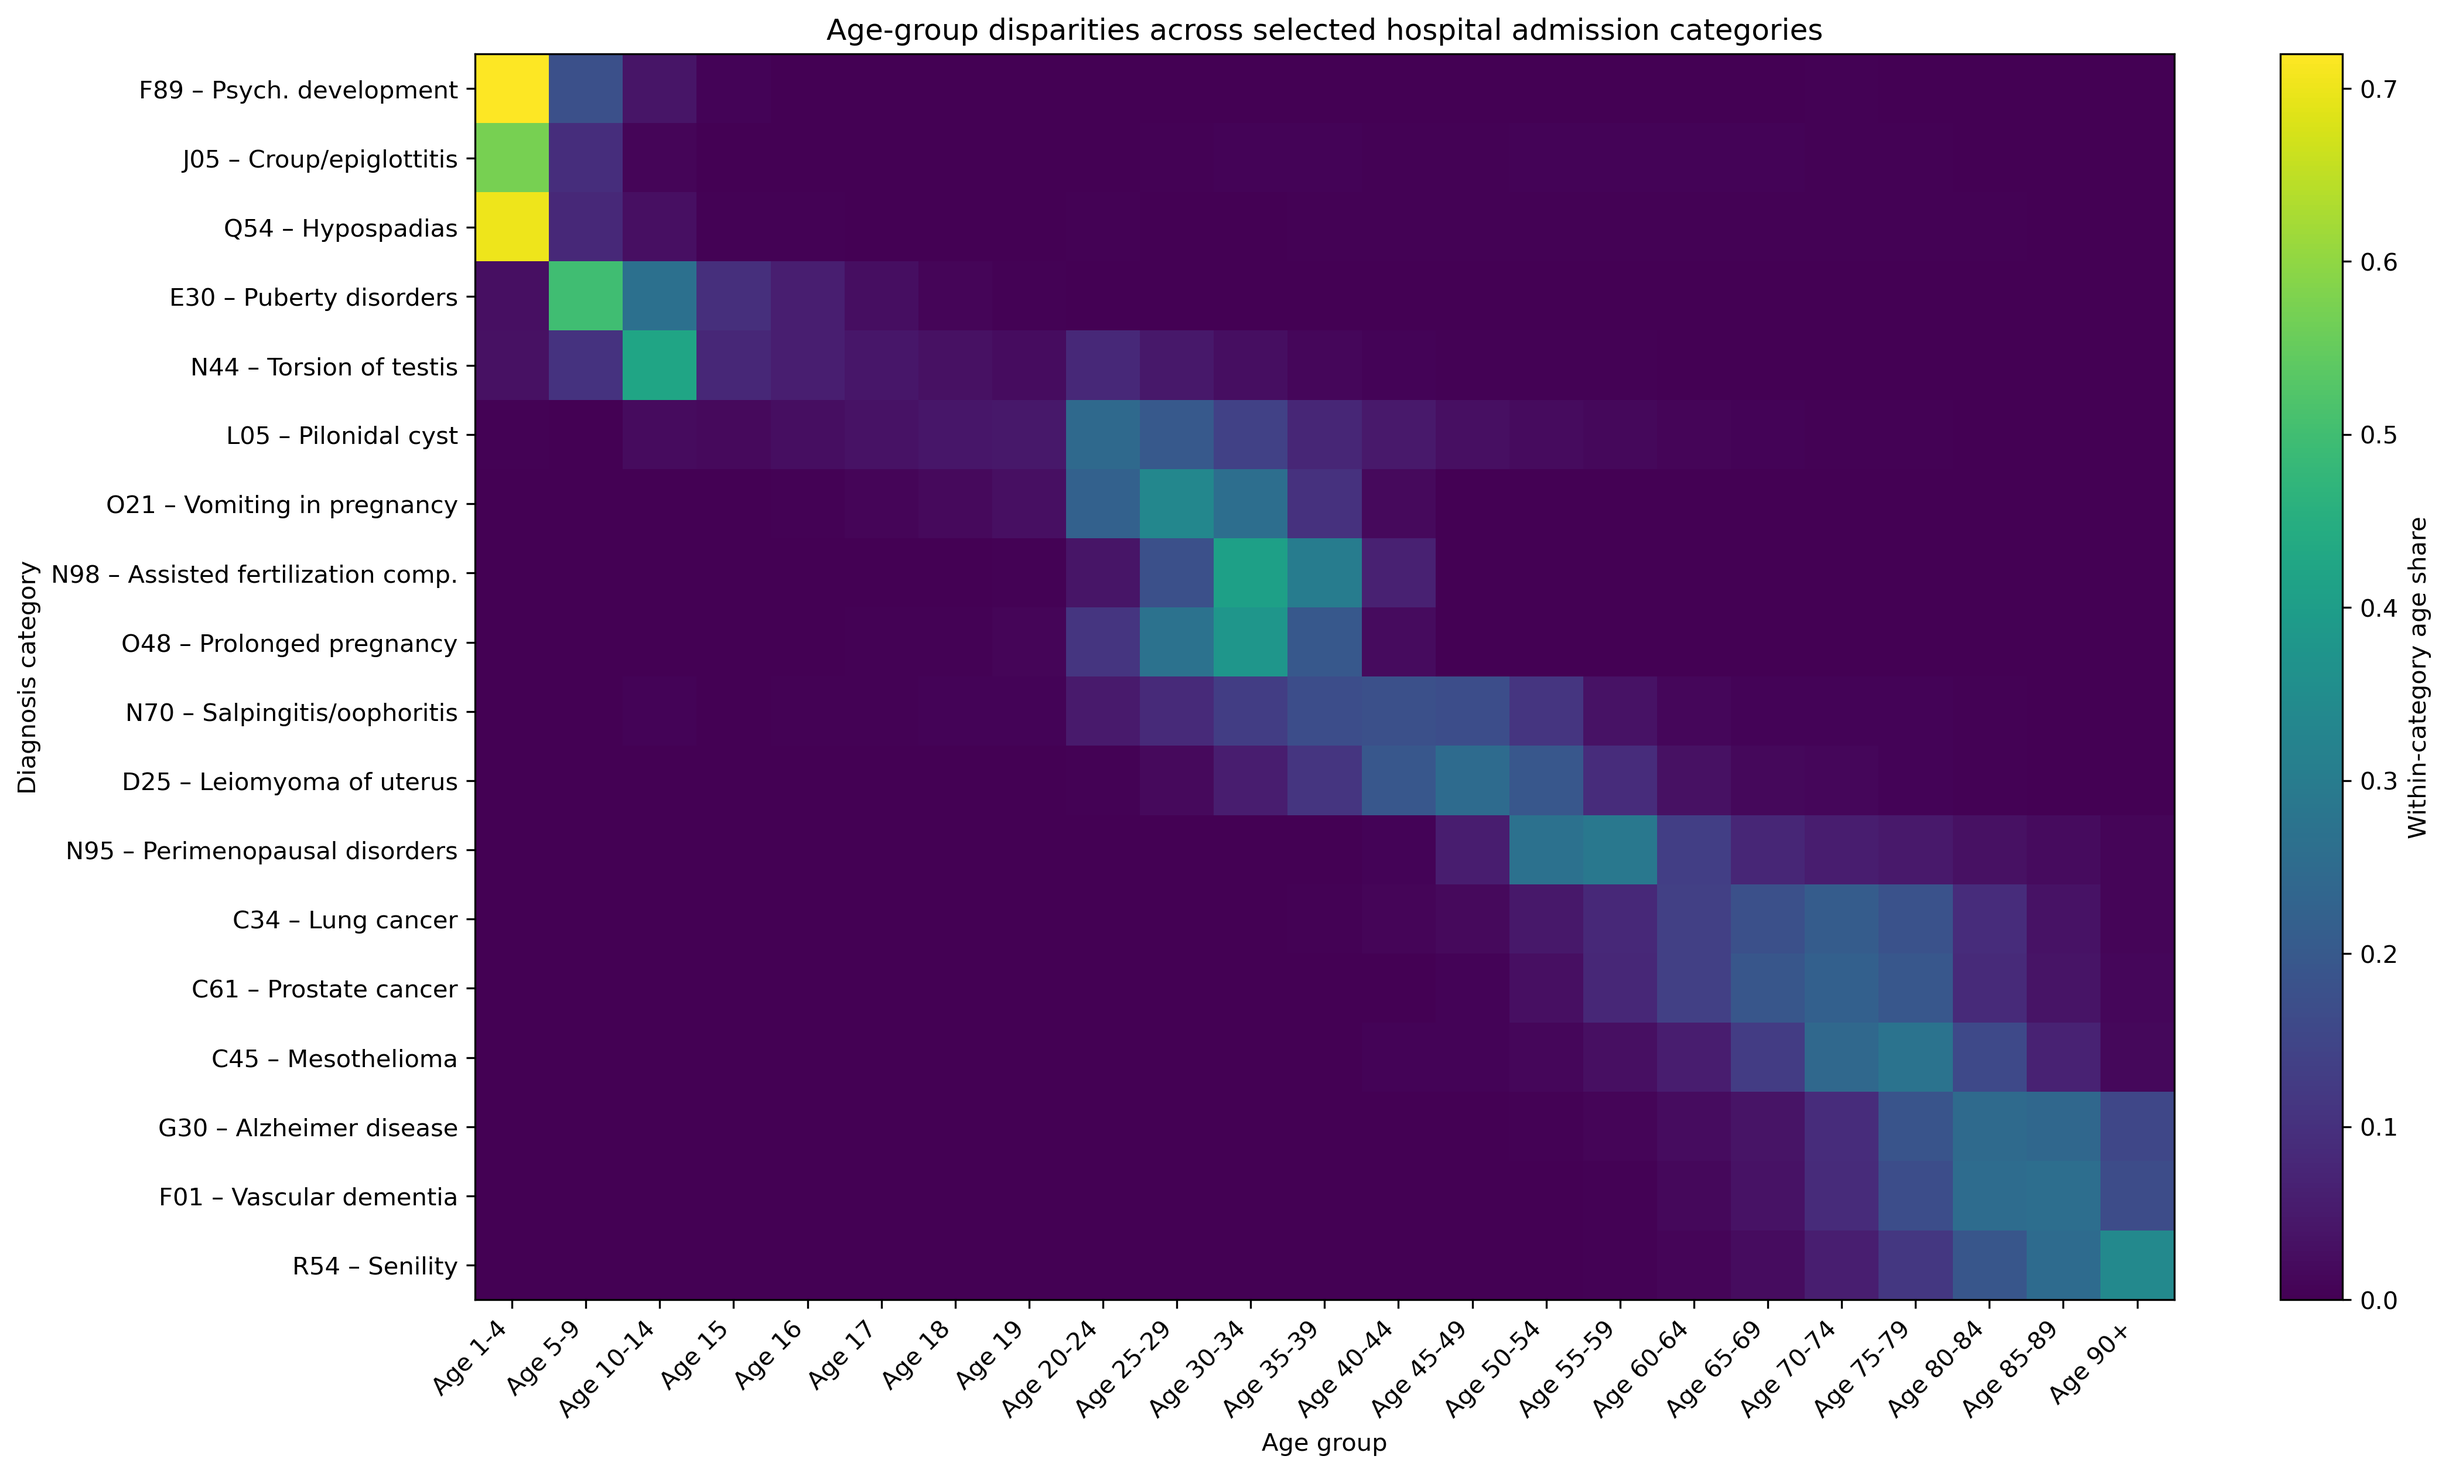
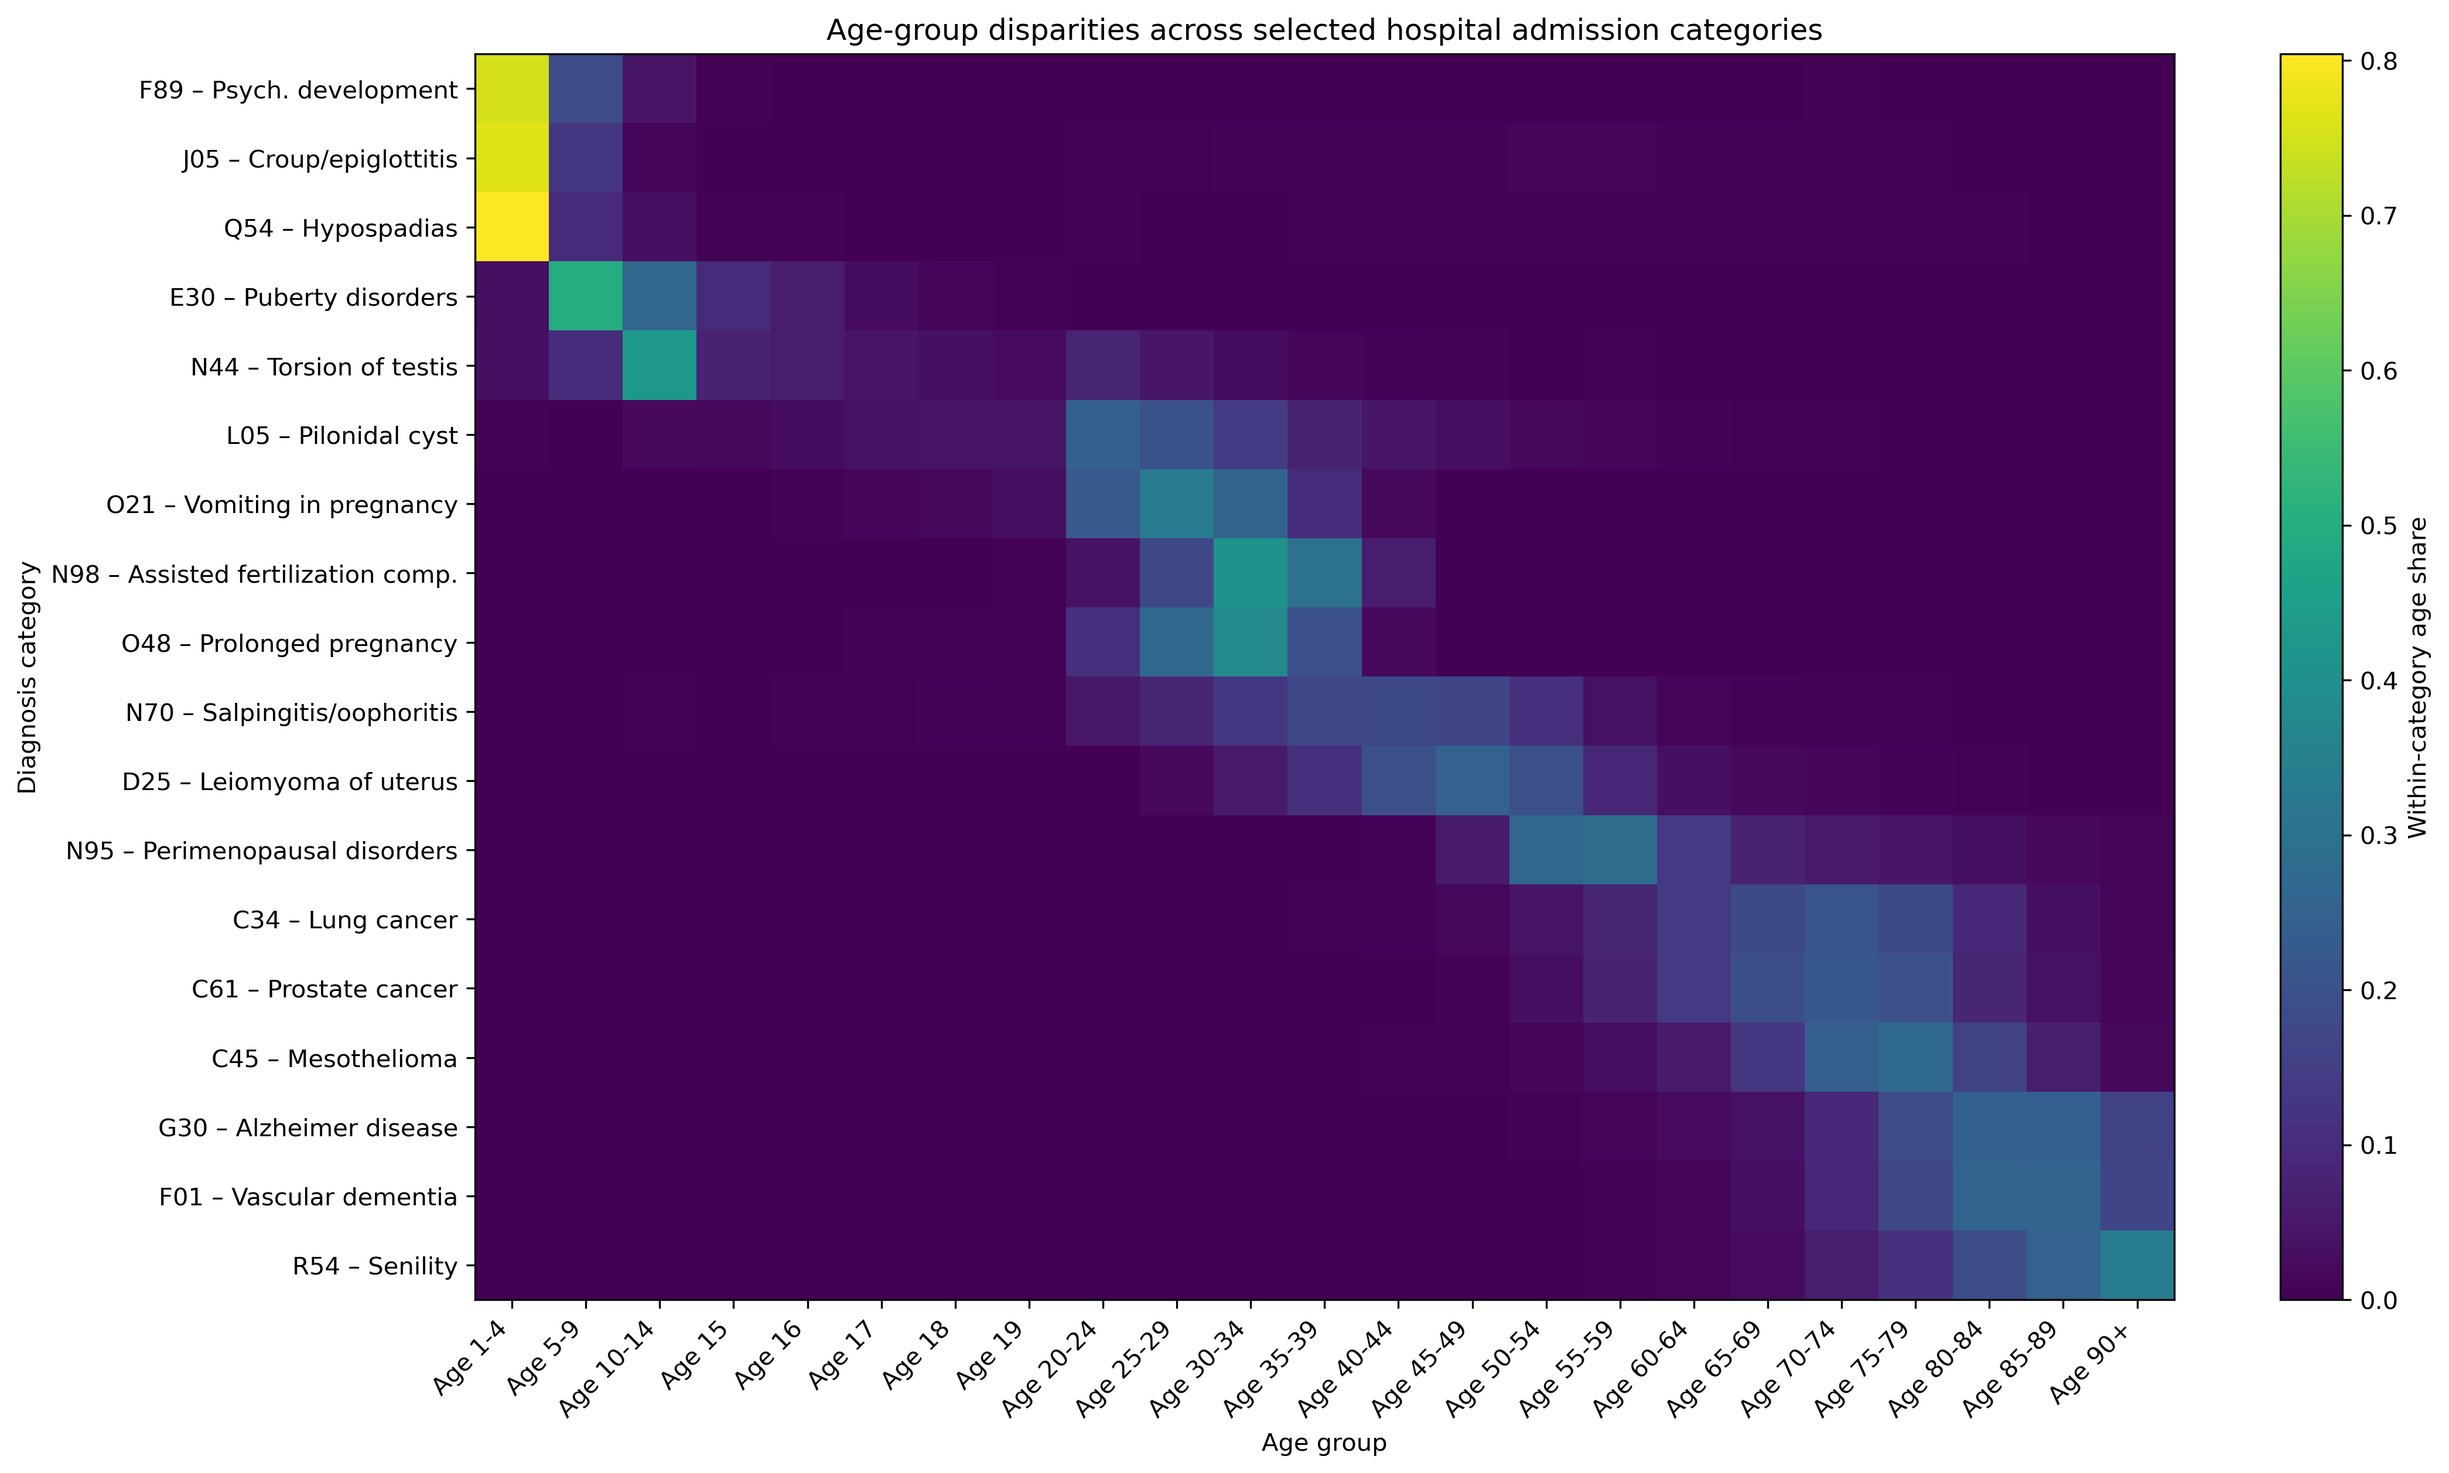
Fix weighted aggregation, Age 0 handling, and age ordering.

Changed region(s): [[0.1866, 0.031, 0.2487, 0.1551], [0.2177, 0.1551, 0.2798, 0.2481], [0.9639, 0.031, 0.995, 0.062]]

diff --git a/cw2_analysis_final.py b/cw2_analysis_final.py
@@ -113,35 +113,55 @@ group_cols = ["Diagnosis Code", "Diagnosis Description"]
 
 avg_cols = ["FCE", "Admissions", "Mean age"] + age_cols
 
-df_avg = (
-    df_core.groupby(group_cols, as_index=False)[avg_cols]
-    .mean()
+sum_cols = ["FCE", "Admissions"] + age_cols
+
+# Aggregate counts across the three years so higher-volume years contribute proportionally.
+df_sum = (
+    df_core.groupby(group_cols, as_index=False)[sum_cols]
+    .sum()
 )
 
+# Compute an admissions-weighted mean age.
+df_weighted_age = (
+    df_core.assign(weighted_mean_age=df_core["Mean age"] * df_core["Admissions"])
+    .groupby(group_cols, as_index=False)[["weighted_mean_age", "Admissions"]]
+    .sum()
+)
+
+df_avg = df_sum.merge(df_weighted_age, on=group_cols, suffixes=("", "_weight"))
+df_avg["Mean age"] = df_avg["weighted_mean_age"] / df_avg["Admissions_weight"]
+df_avg = df_avg.drop(columns=["weighted_mean_age", "Admissions_weight"])
+
+
+# Exclude Age 0 from the final disparity analysis to match the plotted heatmap columns.
+analysis_age_cols = [col for col in age_cols if col != "Age 0"]
 
 df_share = df_avg.copy()
 
-df_share["Age Total"] = df_share[age_cols].sum(axis=1)
+df_share["Age Total"] = df_share[analysis_age_cols].sum(axis=1)
 
-for col in age_cols:
+for col in analysis_age_cols:
     df_share[col] = df_share[col] / df_share["Age Total"]
-
 
 df_share = df_share[df_share["Age Total"] > 0].copy()
 
 
 df_ranked = df_share.copy()
 
-df_ranked["max_age_share"] = df_ranked[age_cols].max(axis=1)
-df_ranked["dominant_age_group"] = df_ranked[age_cols].idxmax(axis=1)
+df_ranked["max_age_share"] = df_ranked[analysis_age_cols].max(axis=1)
+df_ranked["dominant_age_group"] = df_ranked[analysis_age_cols].idxmax(axis=1)
 
-# Final 18 diagnosis categories selected after exploratory ranking and balancing across life stages
+# Rank categories after excluding very small totals and Age 0 from the final analysis.
+df_ranked_filtered = df_ranked[df_ranked["Age Total"] >= 100].copy()
+
 selected_codes = [
     "F89", "Q54", "E30", "N44", "J05", "L05", "O21", "N98", "O48",
     "N95", "D25", "N70", "C61", "C34", "C45", "G30", "F01", "R54"
 ]
 
-df_final = df_ranked[df_ranked["Diagnosis Code"].isin(selected_codes)].copy()
+# Final 18 categories chosen after exploratory ranking, filtered to preserve life-course coverage and readability in the final heatmap.
+selected_code_set = set(selected_codes)
+df_final = df_ranked_filtered[df_ranked_filtered["Diagnosis Code"].isin(selected_code_set)].copy()
 
 
 heatmap_cols = ["Diagnosis Code", "Diagnosis Description", "dominant_age_group"] + age_cols
@@ -153,21 +173,25 @@ age_order = {
     "Age 5-9": 2,
     "Age 10-14": 3,
     "Age 15": 4,
-    "Age 20-24": 5,
-    "Age 25-29": 6,
-    "Age 30-34": 7,
-    "Age 35-39": 8,
-    "Age 40-44": 9,
-    "Age 45-49": 10,
-    "Age 50-54": 11,
-    "Age 55-59": 12,
-    "Age 60-64": 13,
-    "Age 65-69": 14,
-    "Age 70-74": 15,
-    "Age 75-79": 16,
-    "Age 80-84": 17,
-    "Age 85-89": 18,
-    "Age 90+": 19
+    "Age 16": 5,
+    "Age 17": 6,
+    "Age 18": 7,
+    "Age 19": 8,
+    "Age 20-24": 9,
+    "Age 25-29": 10,
+    "Age 30-34": 11,
+    "Age 35-39": 12,
+    "Age 40-44": 13,
+    "Age 45-49": 14,
+    "Age 50-54": 15,
+    "Age 55-59": 16,
+    "Age 60-64": 17,
+    "Age 65-69": 18,
+    "Age 70-74": 19,
+    "Age 75-79": 20,
+    "Age 80-84": 21,
+    "Age 85-89": 22,
+    "Age 90+": 23,
 }
 
 df_heatmap["age_order"] = df_heatmap["dominant_age_group"].map(age_order)
@@ -200,7 +224,7 @@ short_label_map = {
 
 plot_df = df_heatmap.copy()
 plot_df["y_label"] = plot_df["Diagnosis Code"].map(short_label_map)
-plot_age_cols = [col for col in age_cols if col != "Age 0"]
+plot_age_cols = analysis_age_cols
 plot_df = plot_df.set_index("y_label")[plot_age_cols]
 
 plt.figure(figsize=(15, 8.5))
